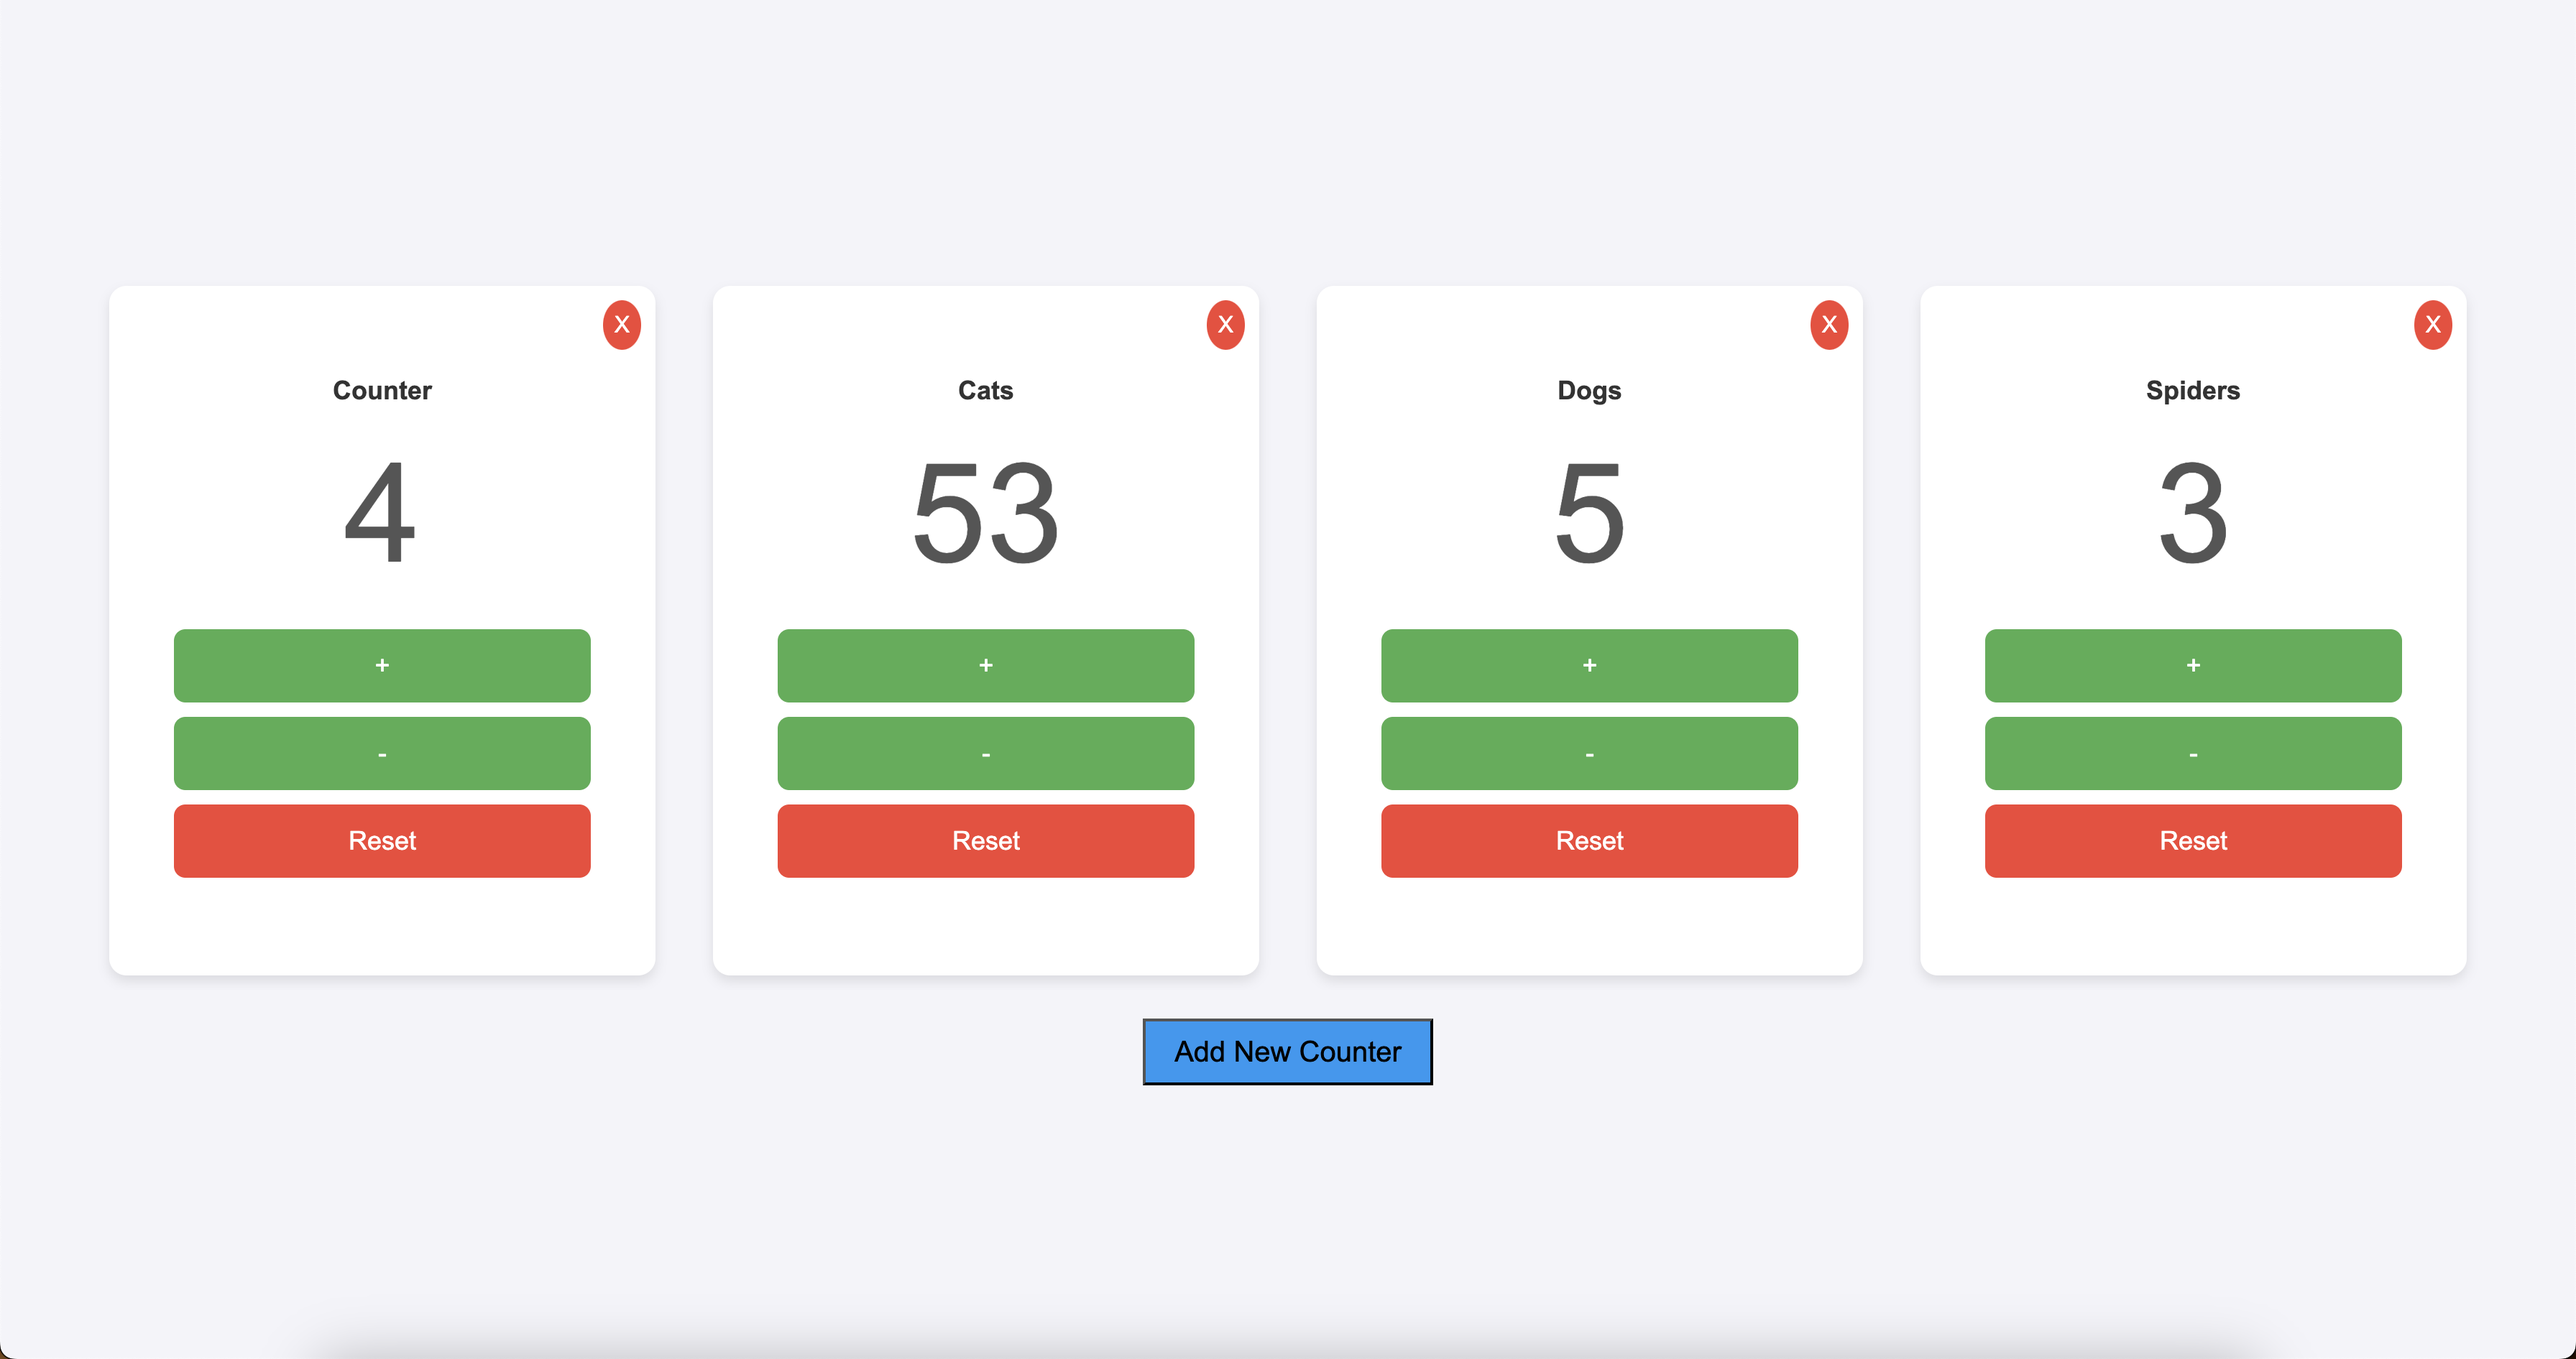
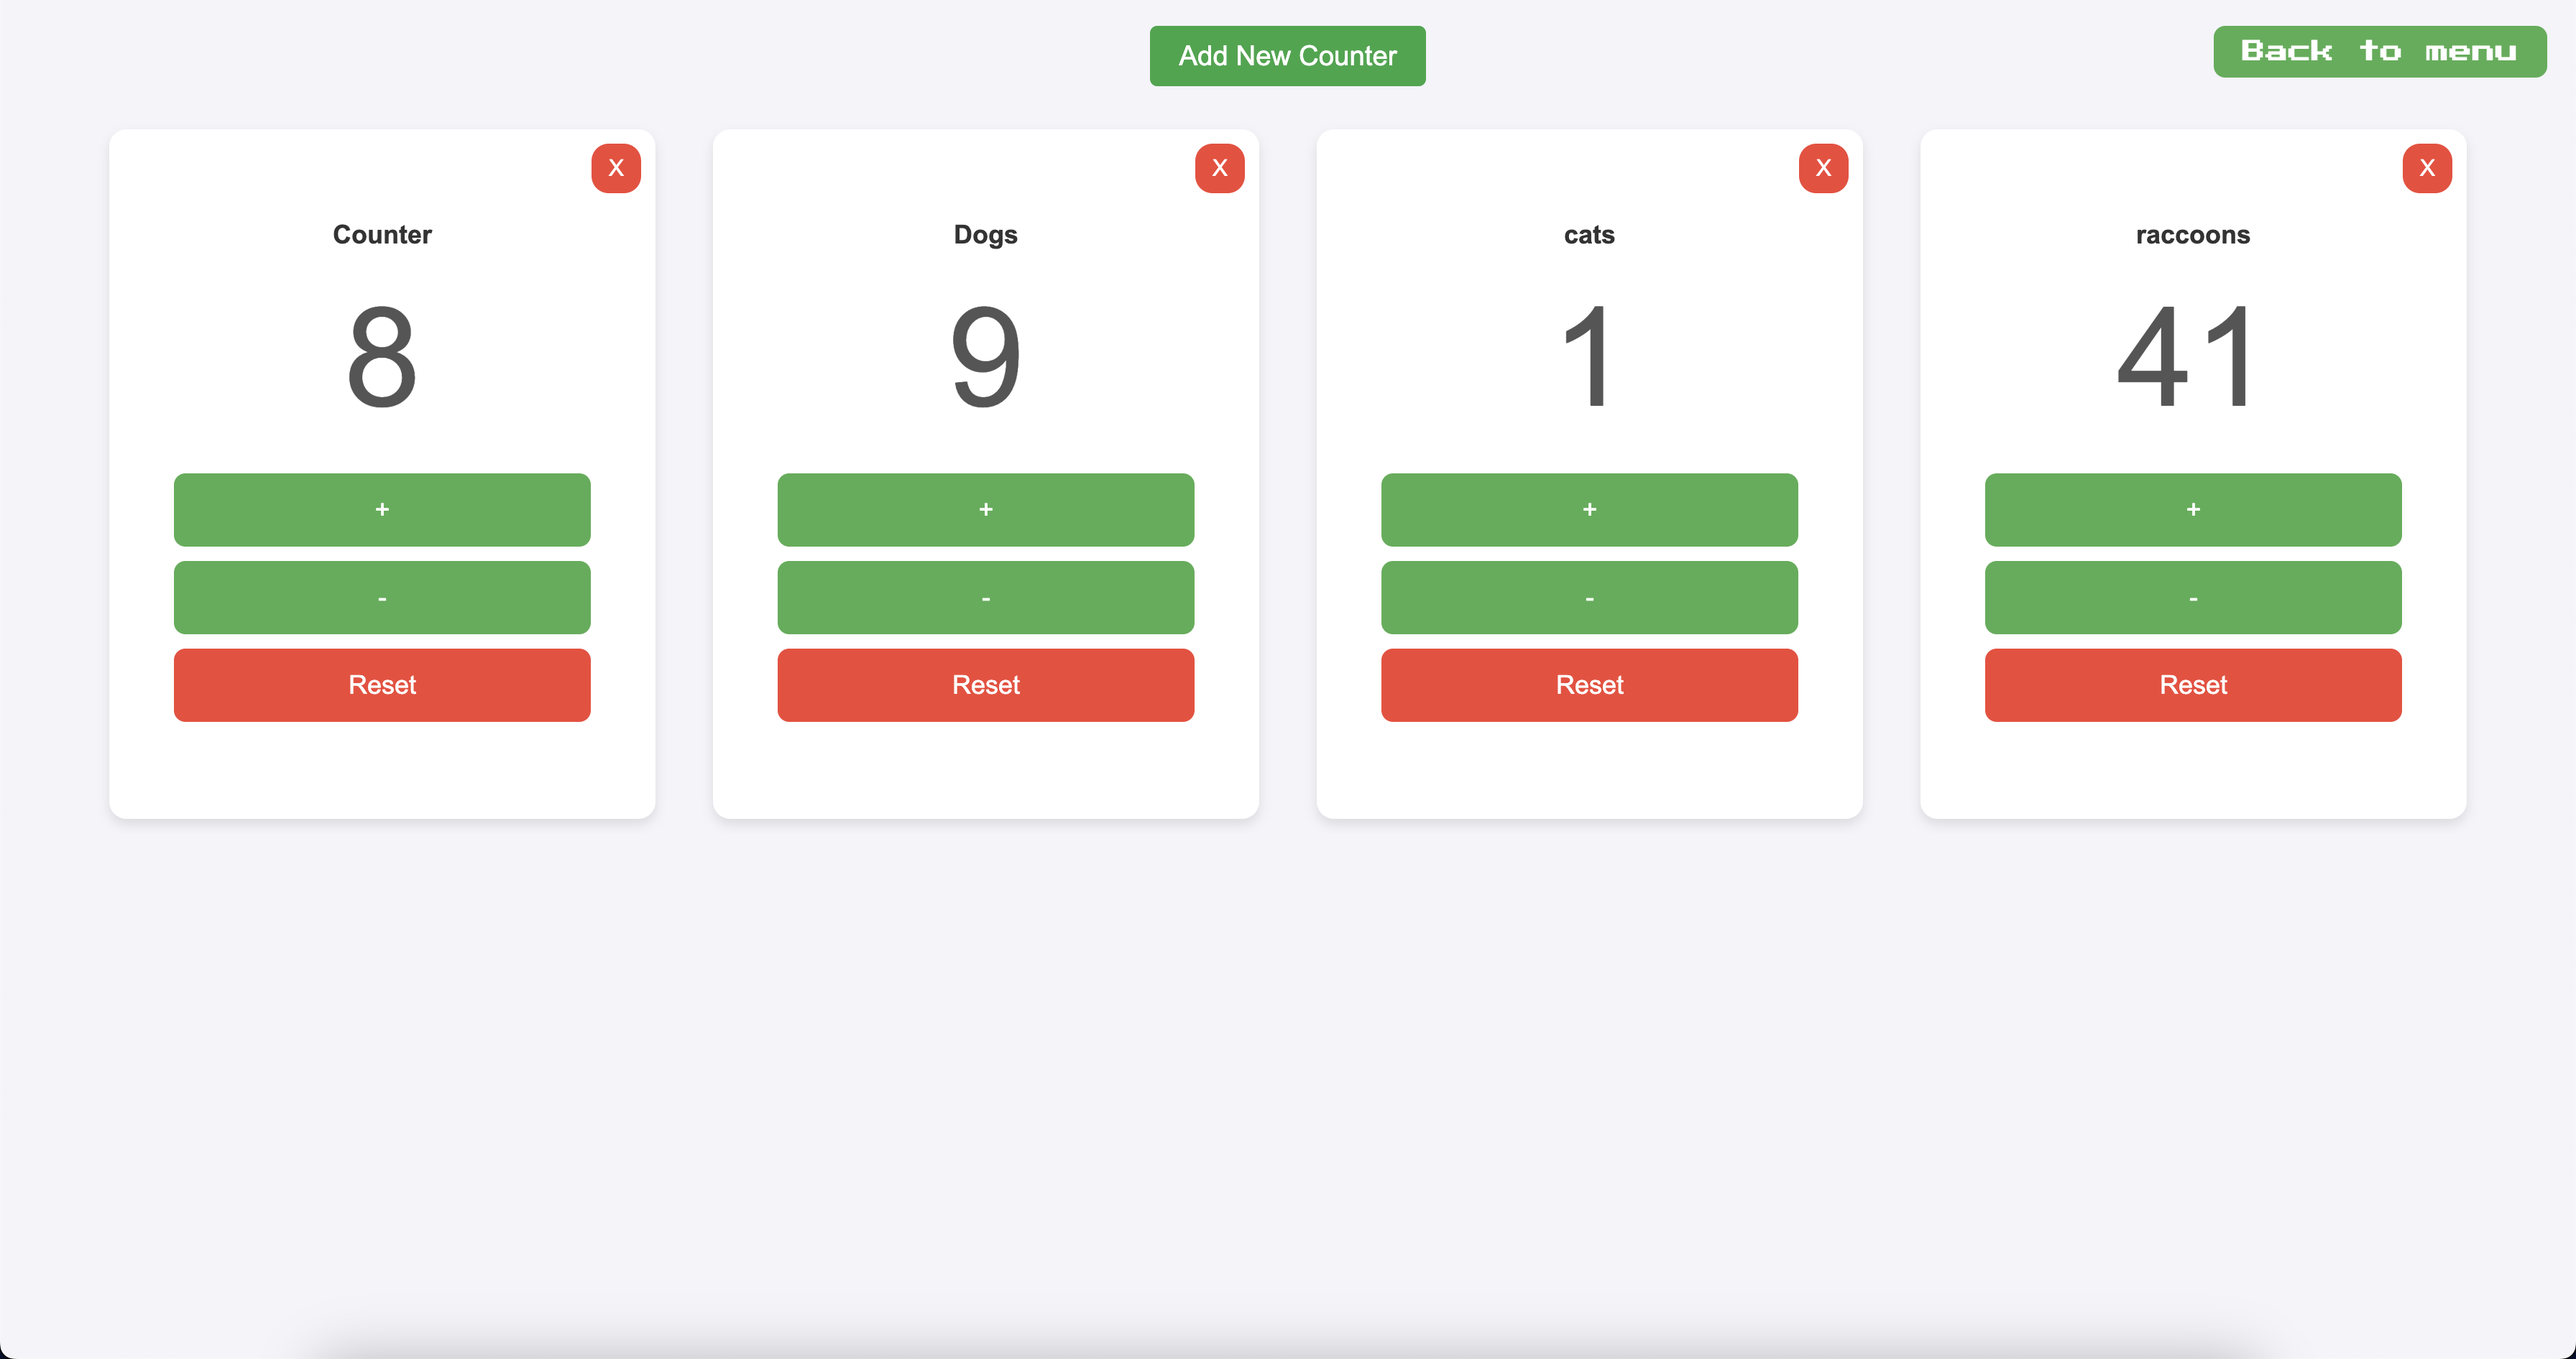
Added random_numbers and moved add-Btn to common.css

diff --git a/tools/calculator.js b/tools/calculator.js
@@ -4,7 +4,6 @@ function createCalculator() {
     let calculator = document.createElement("div");
     calculator.classList.add("calculator");
 
-    // Создаем кнопку удаления
     let deleteButton = document.createElement("button");
     deleteButton.classList.add("btn", "delete-btn");
     deleteButton.textContent = "X";
@@ -94,4 +93,4 @@ function handleKeyPress(event, display) {
     }
 }
 
-document.getElementById("addCalculatorBtn").addEventListener("click", createCalculator);
+document.getElementById("add-Btn").addEventListener("click", createCalculator);

diff --git a/tools/counter.css b/tools/counter.css
@@ -5,9 +5,9 @@ body {
     display: flex;
     justify-content: center;
     align-items: center;
-    height: 100vh;
+    height: auto;
     background-color: #f4f4f9;
-    margin: 0;
+    margin: 20px;
     flex-direction: column;
     overflow: auto;
 }
@@ -64,19 +64,6 @@ h1 {
 
 .btn-reset:hover {
     background-color: #d32f2f;
-}
-
-.add-btn {
-    margin-top: 20px;
-    font-size: 20px;
-    padding: 10px 20px;
-    background-color: #2196f3;
-    border: none;
-    border-radius: 12px;
-}
-
-.add-btn:hover {
-    background-color: #1976d2;
 }
 
 .counter-row {

diff --git a/tools/counter.html b/tools/counter.html
@@ -9,6 +9,7 @@
     <script src="counter.js"></script>
 </head>
 <body>
+<button id="add-Btn" onclick="openModal()">Add New Counter</button>
 <div class="counter-row" id="counterRow">
     <div class="counter-container" id="counter1">
         <h1>Counter</h1>
@@ -19,7 +20,6 @@
         <button class="delete-btn" onclick="deleteCounter(1)">X</button>
     </div>
 </div>
-<button class="add-btn" onclick="openModal()">Add New Counter</button>
 
 <div class="modal" id="nameModal">
     <div class="modal-content">

diff --git a/tools/calculator.css b/tools/calculator.css
@@ -9,22 +9,6 @@ body {
     background-color: yellowgreen;
 }
 
-#addCalculatorBtn {
-    padding: 10px 20px;
-    font-size: 1.2em;
-    margin-bottom: 20px;
-    cursor: pointer;
-    border: none;
-    background-color: #28a745;
-    color: white;
-    border-radius: 5px;
-    transition: background-color 0.3s;
-}
-
-#addCalculatorBtn:hover {
-    background-color: #218838;
-}
-
 .calculator {
     background-color: #cccccc;
     padding: 20px;

diff --git a/common/common.css b/common/common.css
@@ -91,3 +91,19 @@
 #resetButton:hover {
     background-color: #ffb800;
 }
+
+#add-Btn {
+    padding: 10px 20px;
+    font-size: 1.2em;
+    margin-bottom: 20px;
+    cursor: pointer;
+    border: none;
+    background-color: #28a745;
+    color: white;
+    border-radius: 5px;
+    transition: background-color 0.3s;
+}
+
+#add-Btn:hover {
+    background-color: #218838;
+}

diff --git a/tools/random_numbers.html b/tools/random_numbers.html
@@ -8,8 +8,8 @@
     <link rel="stylesheet" type="text/css" href="random_numbers.css">
 </head>
 <body>
-<div class="top-button">
-    <button onclick="addGenerator()">Add new generator</button>
+<div class="top-button button">
+    <button id="add-Btn" onclick="addGenerator()">Add new generator</button>
 </div>
 
 <div class="generators" id="generators">

diff --git a/tools/calculator.html b/tools/calculator.html
@@ -8,7 +8,7 @@
     <link rel="stylesheet" href="calculator.css"/>
 </head>
 <body>
-<button id="addCalculatorBtn">Add new calculator</button>
+<button id="add-Btn">Add new calculator</button>
 <div id="calculators"></div>
 <script src="calculator.js"></script>
 <a href="tools.html" class="back-button">Back to menu</a>

diff --git a/tools/random_numbers.css b/tools/random_numbers.css
@@ -1,3 +1,5 @@
+@import "../common/common.css";
+
 body {
     margin: 0;
     padding: 20px;
@@ -51,7 +53,7 @@ body {
 
 .number {
     margin-top: 20px;
-    font-size: 28px;
+    font-size: 35px;
     font-weight: bold;
 }
 
